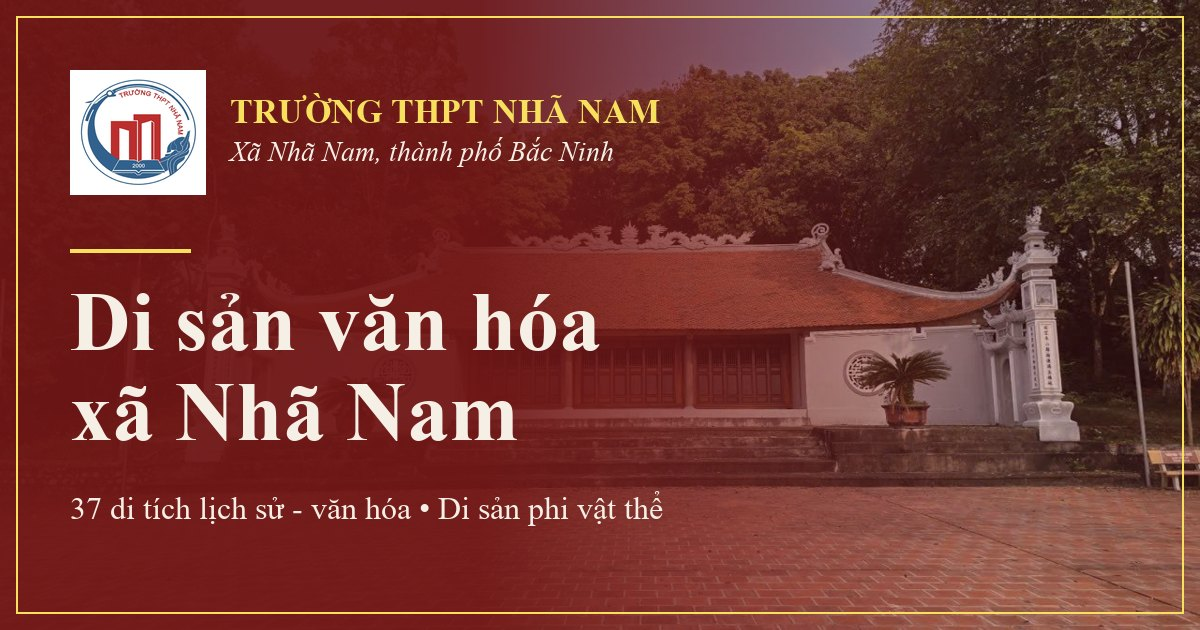
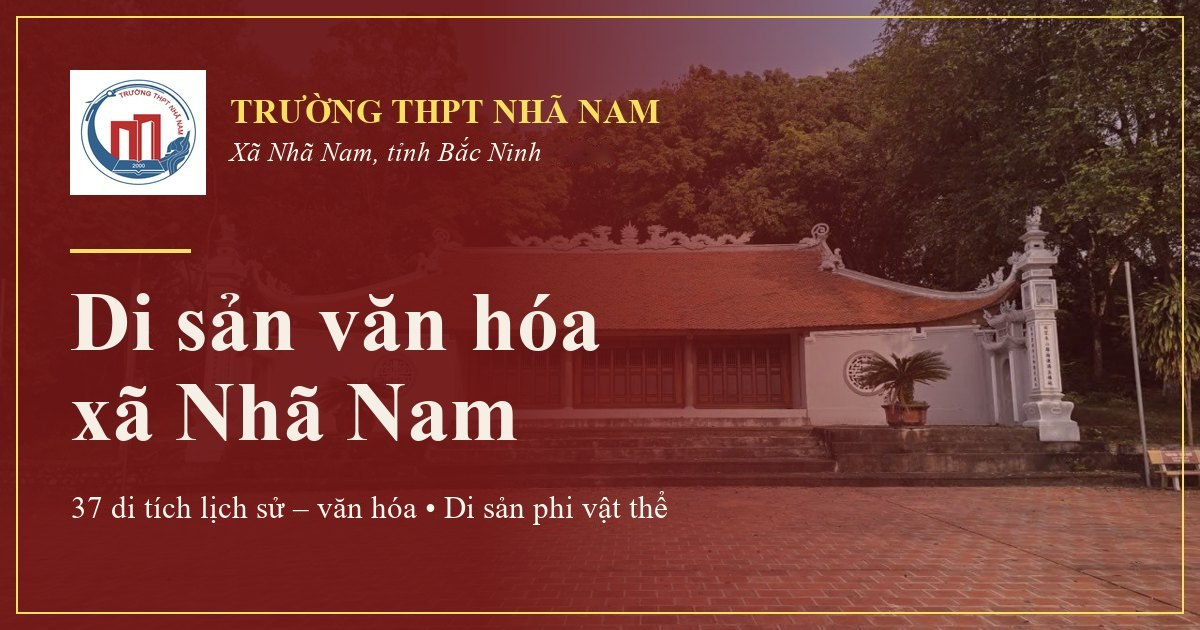
fix: anh chia se ghi "tinh Bac Ninh" thay cho "thanh pho Bac Ninh"
Anh hien khi chia se link len Facebook, Zalo van ghi dia danh cu.
Sua chu tren anh, doi dau gach noi thanh gach ngang trong "lich su – van hoa",
tang ?v de mang xa hoi tai lai anh.

Changed region(s): [[0.0617, 0.7841, 0.555, 0.8444], [0.185, 0.2111, 0.5242, 0.2714]]

diff --git a/index.html b/index.html
@@ -14,8 +14,8 @@
   <meta property="og:title" content="Di sản văn hóa xã Nhã Nam • Cổng thông tin số hóa Trường THPT Nhã Nam" />
   <meta property="og:description" content="Cổng thông tin số hóa hệ thống 37 di tích lịch sử – văn hóa xã Nhã Nam, tỉnh Bắc Ninh: 16 di tích xếp hạng, trong đó có 08 di tích quốc gia đặc biệt, cùng các di sản văn hóa phi vật thể. Ảnh thực tế, thuyết minh, bản đồ và tư liệu do Trường THPT Nhã Nam biên soạn." />
   <meta property="og:url" content="https://lucvuu.github.io/di-san-nha-nam/" />
-  <meta property="og:image" content="https://lucvuu.github.io/di-san-nha-nam/assets/images/share/og-image.jpg?v=2" />
-  <meta property="og:image:secure_url" content="https://lucvuu.github.io/di-san-nha-nam/assets/images/share/og-image.jpg?v=2" />
+  <meta property="og:image" content="https://lucvuu.github.io/di-san-nha-nam/assets/images/share/og-image.jpg?v=3" />
+  <meta property="og:image:secure_url" content="https://lucvuu.github.io/di-san-nha-nam/assets/images/share/og-image.jpg?v=3" />
   <meta property="og:image:type" content="image/jpeg" />
   <meta property="og:image:width" content="1200" />
   <meta property="og:image:height" content="630" />
@@ -23,7 +23,7 @@
   <meta name="twitter:card" content="summary_large_image" />
   <meta name="twitter:title" content="Di sản văn hóa xã Nhã Nam • Cổng thông tin số hóa Trường THPT Nhã Nam" />
   <meta name="twitter:description" content="Cổng thông tin số hóa hệ thống 37 di tích lịch sử – văn hóa xã Nhã Nam, tỉnh Bắc Ninh: 16 di tích xếp hạng, trong đó có 08 di tích quốc gia đặc biệt, cùng các di sản văn hóa phi vật thể. Ảnh thực tế, thuyết minh, bản đồ và tư liệu do Trường THPT Nhã Nam biên soạn." />
-  <meta name="twitter:image" content="https://lucvuu.github.io/di-san-nha-nam/assets/images/share/og-image.jpg?v=2" />
+  <meta name="twitter:image" content="https://lucvuu.github.io/di-san-nha-nam/assets/images/share/og-image.jpg?v=3" />
   <meta name="keywords" content="Di sản Nhã Nam, xã Nhã Nam, THPT Nhã Nam, đình Hả, chùa Hả, chùa Tứ Giáp, chùa Đồng Điều, đền Gốc Khế, đồn Nhã Nam, đồi Phủ, đền Đề Truật, đình làng Chuông, chùa Nam Thiên, khởi nghĩa Yên Thế, Lương Văn Nắm, Hoàng Hoa Thám, tỉnh Bắc Ninh, Bắc Ninh" />
     <!-- Cache Prevention Headers -->
   <meta http-equiv="Cache-Control" content="no-cache, no-store, must-revalidate" />
